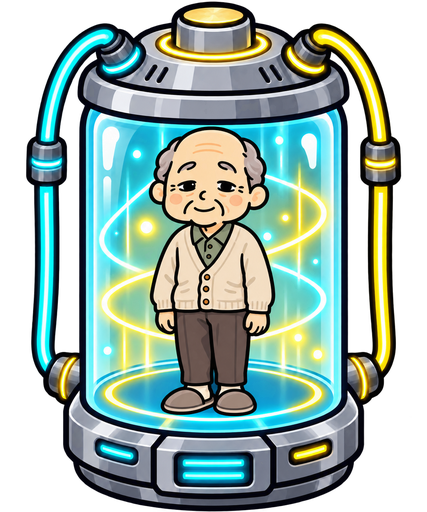
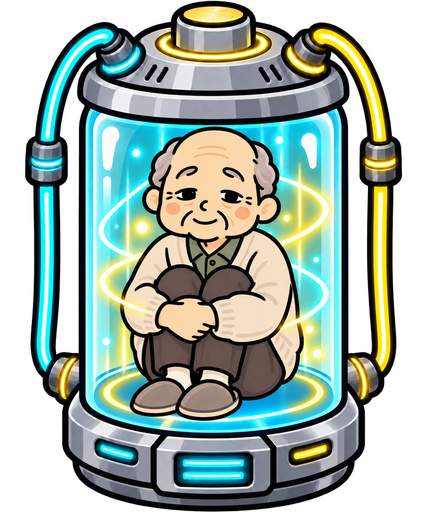
人間電池のおじいさんを体育座りにする

diff --git a/app-card-battle-v2.js b/app-card-battle-v2.js
@@ -19,7 +19,7 @@ const quizTriviaDefaults=()=>{const f=[
 const gameAssetCatalog=GAME_DATA.assets||{},gameMapNames=gameAssetCatalog.maps||[],gameNpcNames=gameAssetCatalog.npcs||[],gameItemNames=gameAssetCatalog.items||[];
 // シナリオの到達状態はゲームを遊んでいる端末ごとに保持する。ツールとゲームで同じキーを使う。
 const scenarioFlowFlagsKey='amu-runner-scenario-flow-flags-v1',scenarioFlowFlagKey=(scenarioId,nodeId)=>String(scenarioId||'')+'::'+String(nodeId||''),readScenarioFlowFlags=()=>{try{return JSON.parse(localStorage.getItem(scenarioFlowFlagsKey)||'{}')}catch{return{}}},setScenarioFlowFlag=(scenarioId,nodeId)=>{if(!scenarioId||!nodeId)return;const flags=readScenarioFlowFlags();flags[scenarioFlowFlagKey(scenarioId,nodeId)]=true;localStorage.setItem(scenarioFlowFlagsKey,JSON.stringify(flags));window.dispatchEvent(new CustomEvent('scenario-flow-flag-set',{detail:{scenarioId,nodeId}}))};
-const gameItemSrc=name=>{const file=String(name).replace(/\.png$/i,'');return 'game-assets/items/'+encodeURIComponent(file)+'.webp?v=20261002-human-battery-no-chair-3'};
+const gameItemSrc=name=>{const file=String(name).replace(/\.png$/i,'');return 'game-assets/items/'+encodeURIComponent(file)+'.webp?v=20261002-human-battery-sitting-4'};
 const MONSTER_JOURNAL_ITEM='バケモノの手記.png';
 const REPORT_ITEM='レポート.png';
 const monsterJournalPages=[

diff --git a/index.html b/index.html
@@ -12,7 +12,7 @@
   <main class="page"><section id="app" class="card"></section></main>
   <script>
     const q=new URLSearchParams(location.search),j=document.createElement('script');
-j.src=q.has('topdown')?'app-topdown.js?v=20260928-map-refresh-2':q.has('hiragana')?'app-hiragana.js?v=20260928-map-refresh-2':'app-card-battle-v2.js?v=20261002-human-battery-no-chair-3';
+j.src=q.has('topdown')?'app-topdown.js?v=20260928-map-refresh-2':q.has('hiragana')?'app-hiragana.js?v=20260928-map-refresh-2':'app-card-battle-v2.js?v=20261002-human-battery-sitting-4';
     document.body.append(j);
   </script>
 </body>

diff --git a/map/index.html b/map/index.html
@@ -12,6 +12,6 @@
 </head>
 <body>
   <main class="page"><section id="app" class="card"></section></main>
-<script src="../app-card-battle-v2.js?v=20261002-human-battery-no-chair-3"></script>
+<script src="../app-card-battle-v2.js?v=20261002-human-battery-sitting-4"></script>
 </body>
 </html>
